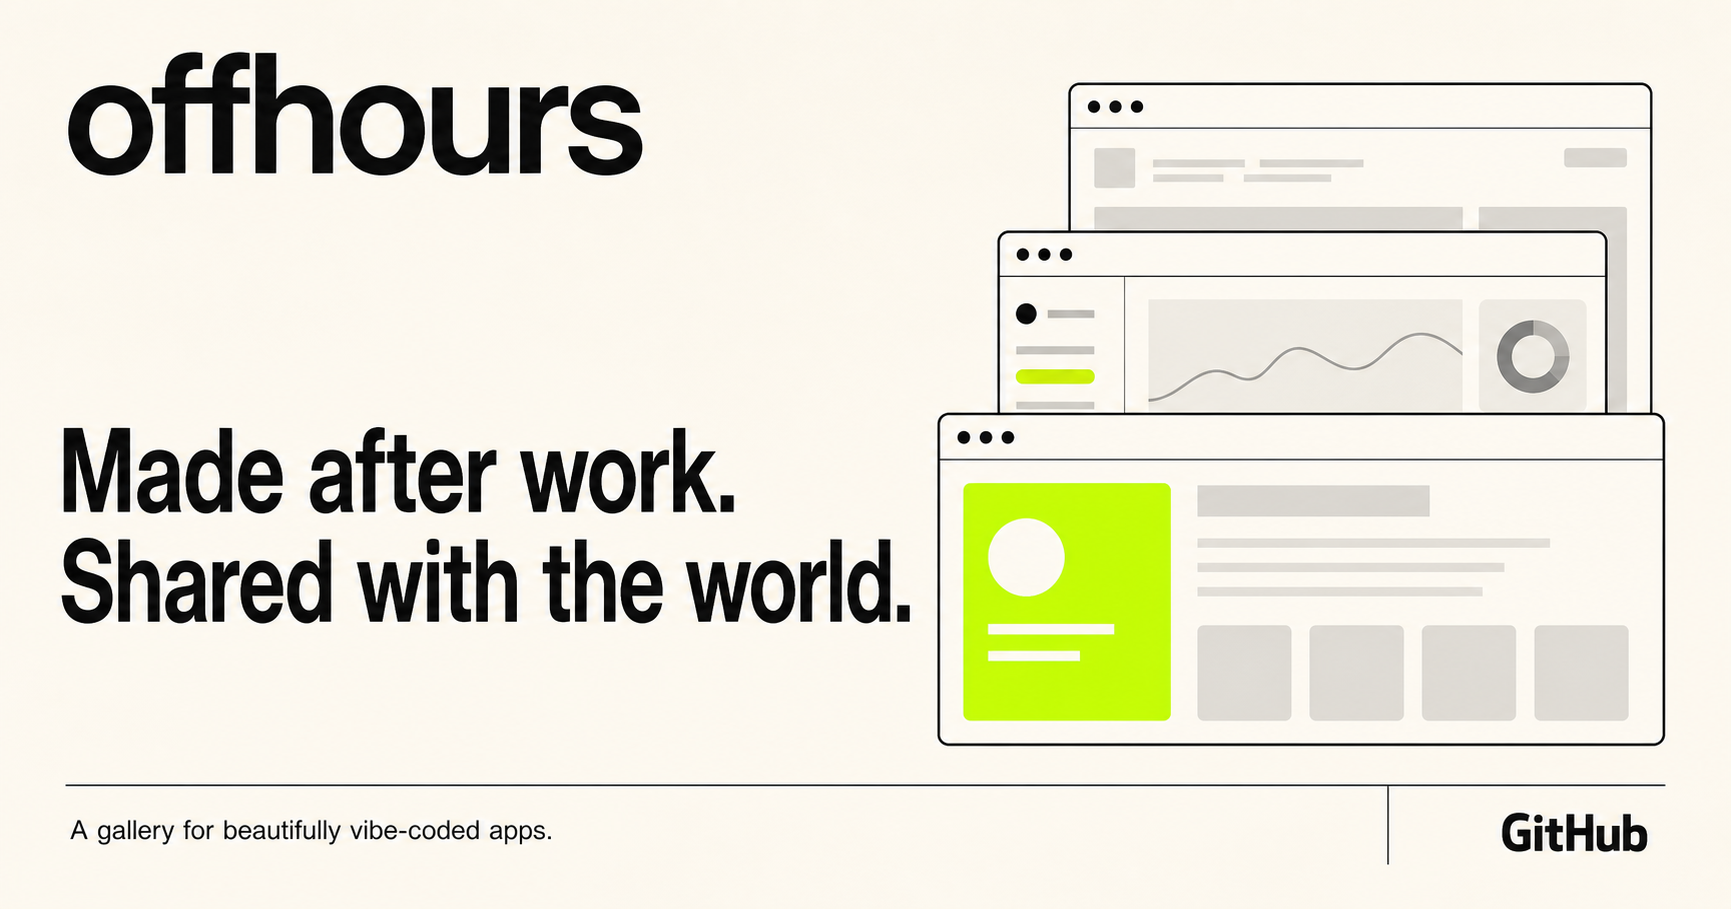
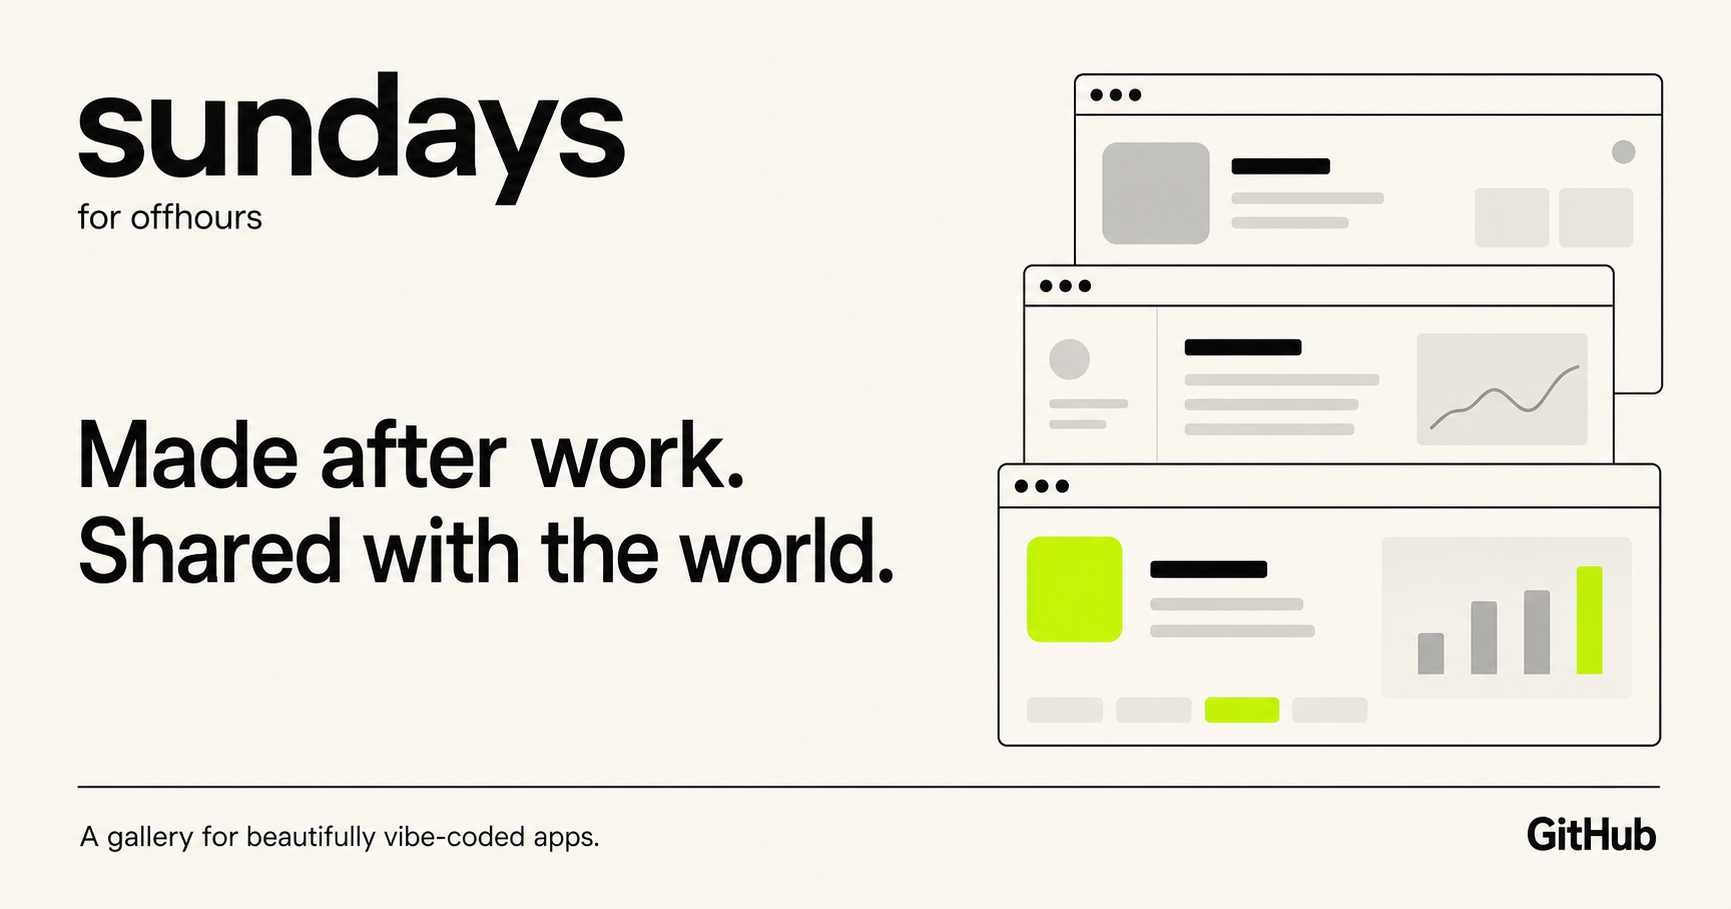
Rebrand offhours as sundays

Changed region(s): [[0.0312, 0.0616, 0.9671, 0.8317], [0.0312, 0.8625, 0.9671, 0.9549], [0.0312, 0.0616, 0.3744, 0.2464]]

diff --git a/app/globals.css b/app/globals.css
@@ -1,7 +1,7 @@
 @import "tailwindcss";
 :root{--paper:#f1efe8;--ink:#10100f;--acid:#ceff1a;--rule:rgba(16,16,15,.22)}
 *{box-sizing:border-box}html{scroll-behavior:smooth}body{margin:0;background:var(--paper);color:var(--ink);font-family:var(--font-geist-sans),Arial,sans-serif}a{color:inherit;text-decoration:none}.shell{width:min(1380px,calc(100% - 64px));margin-inline:auto}
-.nav{height:88px;display:grid;grid-template-columns:1fr auto 1fr;align-items:center;border-bottom:1px solid var(--rule)}.wordmark{font-size:23px;font-weight:650;letter-spacing:-.06em}.wordmark span{color:#7e22ce}.nav-links{display:flex;gap:36px;font-size:13px}.nav-links a,.footer a{transition:opacity .2s}.nav-links a:hover,.footer a:hover{opacity:.52}.github-button{justify-self:end;border:1px solid var(--ink);padding:12px 17px;font-size:12px;display:flex;align-items:center;gap:9px;transition:.2s}.github-button:hover{background:var(--ink);color:var(--paper)}.github-dot{width:16px;height:16px;display:inline-block;border-radius:50%;background:currentColor;position:relative}.github-dot:after{content:"";position:absolute;background:var(--paper);width:6px;height:5px;border-radius:50% 50% 40% 40%;left:5px;top:4px}
+.nav{height:88px;display:grid;grid-template-columns:1fr auto 1fr;align-items:center;border-bottom:1px solid var(--rule)}.wordmark{font-size:23px;font-weight:650;letter-spacing:-.06em;display:flex;align-items:baseline;width:max-content}.wordmark span{color:#7e22ce}.wordmark small{margin-left:10px;font:7px var(--font-geist-mono);letter-spacing:.08em;text-transform:uppercase;color:#777}.nav-links{display:flex;gap:36px;font-size:13px}.nav-links a,.footer a{transition:opacity .2s}.nav-links a:hover,.footer a:hover{opacity:.52}.github-button{justify-self:end;border:1px solid var(--ink);padding:12px 17px;font-size:12px;display:flex;align-items:center;gap:9px;transition:.2s}.github-button:hover{background:var(--ink);color:var(--paper)}.github-dot{width:16px;height:16px;display:inline-block;border-radius:50%;background:currentColor;position:relative}.github-dot:after{content:"";position:absolute;background:var(--paper);width:6px;height:5px;border-radius:50% 50% 40% 40%;left:5px;top:4px}
 .hero{padding:66px 0 50px;min-height:610px;display:flex;flex-direction:column}.eyebrow,.section-number{font-family:var(--font-geist-mono);font-size:10px;letter-spacing:.13em;text-transform:uppercase}.eyebrow{display:flex;gap:18px;align-items:center}.eyebrow span{padding:5px 7px;background:var(--acid)}.hero h1{margin:54px 0 42px;font-size:clamp(64px,8.3vw,128px);line-height:.87;letter-spacing:-.075em;font-weight:600}.hero h1 em,h2 em{font-family:Georgia,"Times New Roman",serif;font-weight:400}.hero h1 em{display:inline-block;padding-left:12.5vw}.hero-bottom{margin-top:auto;display:flex;justify-content:space-between;align-items:end}.hero-bottom p{margin:0;font-size:15px;line-height:1.55;color:#55554f}.text-link{display:flex;gap:54px;border-bottom:1px solid var(--ink);padding-bottom:9px;font-size:13px;transition:gap .2s}.text-link:hover{gap:64px}
 .ticker{border-block:1px solid var(--ink);overflow:hidden;background:var(--acid)}.ticker div{min-width:max-content;height:43px;display:flex;gap:36px;align-items:center;animation:drift 24s linear infinite;font-family:var(--font-geist-mono);text-transform:uppercase;letter-spacing:.08em;font-size:10px}.ticker b{font-size:13px}@keyframes drift{to{transform:translateX(-32%)}}
 .projects{padding:116px 0 140px}.section-head{display:flex;justify-content:space-between;align-items:end;margin-bottom:70px}.section-head h2{font-size:clamp(46px,5vw,76px);letter-spacing:-.06em;line-height:.95;margin:28px 0 0;font-weight:590}.section-head>p{font-size:13px;line-height:1.5;color:#5d5d57;margin:0}.project-grid{display:grid;grid-template-columns:1fr 1fr;gap:74px 28px}.preview-frame{height:clamp(300px,37vw,495px);display:block;padding:8%;position:relative;overflow:hidden}.preview-frame.lime{background:#cdef49}.preview-frame.blue{background:#89a9ff}.preview-frame.coral{background:#ff826d}.preview-frame.violet{background:#b893e6}.browser-chrome{height:32px;background:#f6f4ee;display:flex;gap:5px;align-items:center;padding:0 10px;box-shadow:0 16px 40px rgba(0,0,0,.12)}.browser-chrome span{width:5px;height:5px;background:#aaa;border-radius:50%}.browser-chrome b{margin-left:auto;font:8px var(--font-geist-mono);color:#777}.app-screen{height:calc(100% - 32px);background:#fff;box-shadow:0 16px 40px rgba(0,0,0,.12);position:relative;overflow:hidden}.open-pill{opacity:0;transform:translateY(8px);position:absolute;right:20px;bottom:20px;background:var(--ink);color:#fff;padding:12px 14px;font-size:11px;display:flex;gap:24px;transition:.2s}.preview-frame:hover .open-pill{opacity:1;transform:translateY(0)}

diff --git a/app/page.tsx b/app/page.tsx
@@ -41,12 +41,12 @@ export default function Home() {
   return (
     <main>
       <nav className="nav shell" aria-label="Primary navigation">
-        <Link className="wordmark" href="/">offhours<span>.</span></Link>
+        <Link className="wordmark" href="/">sundays<span>.</span><small>for offhours</small></Link>
         <div className="nav-links"><a href="#work">Explore</a><a href="#about">About</a></div>
         <a className="github-button" href="https://github.com" target="_blank" rel="noreferrer"><span className="github-dot" aria-hidden="true" /> Continue with GitHub</a>
       </nav>
       <section className="hero shell">
-        <div className="eyebrow"><span>001</span> Built after hours</div>
+        <div className="eyebrow"><span>001</span> Sundays are for offhours</div>
         <h1>Made after work.<br /><em>Shared with the world.</em></h1>
         <div className="hero-bottom"><p>A gallery for the little apps that became<br />something worth showing.</p><a className="text-link" href="#work">See what&apos;s being made <Arrow /></a></div>
       </section>
@@ -66,7 +66,7 @@ export default function Home() {
       </section>
       <section className="makers shell" id="about">
         <span className="section-number">02 / 03</span>
-        <div className="makers-copy"><h2>No pitches.<br />No growth hacks.<br /><em>Just good work.</em></h2><p>offhours is for people who make things because they can&apos;t quite stop themselves. Your page, your projects, your GitHub. We host the gallery—not your work.</p><a className="light-button" href="https://github.com" target="_blank" rel="noreferrer">Add yours with GitHub <Arrow /></a></div>
+        <div className="makers-copy"><h2>No pitches.<br />No growth hacks.<br /><em>Just good work.</em></h2><p>sundays is for people who make things in their offhours because they can&apos;t quite stop themselves. Your page, your projects, your GitHub. We host the gallery—not your work.</p><a className="light-button" href="https://github.com" target="_blank" rel="noreferrer">Add yours with GitHub <Arrow /></a></div>
         <div className="maker-stack" aria-label="Featured makers">
           {projects.slice(0, 3).map((project, index) => <Link className="maker-row" href={`/maker/${project.handle}`} key={project.handle}><span className={`avatar avatar-${index + 1}`} aria-hidden="true">{project.maker.charAt(0)}</span><span><strong>{project.maker}</strong><small>@{project.handle}</small></span><b>{String(index + 1).padStart(2, "0")} projects</b><Arrow /></Link>)}
         </div>
@@ -75,7 +75,7 @@ export default function Home() {
         <span className="section-number">03 / 03</span><div className="submit-mark">↘</div><h2>That thing you made<br />last weekend?</h2>
         <div><p>It belongs here.</p><a className="dark-button" href="https://github.com" target="_blank" rel="noreferrer"><span className="github-dot light" aria-hidden="true" /> Submit from GitHub <Arrow /></a></div>
       </section>
-      <footer className="footer shell"><Link className="wordmark" href="/">offhours<span>.</span></Link><p>For people who make things<br />after they&apos;re done making things.</p><div><a href="#work">Explore</a><a href="https://github.com">GitHub</a><a href="mailto:hello@offhours.gallery">Say hello</a></div><small>© 2026 offhours</small></footer>
+      <footer className="footer shell"><Link className="wordmark" href="/">sundays<span>.</span><small>for offhours</small></Link><p>For people who make things<br />after they&apos;re done making things.</p><div><a href="#work">Explore</a><a href="https://github.com">GitHub</a><a href="mailto:hello@sundays.gallery">Say hello</a></div><small>© 2026 sundays</small></footer>
     </main>
   );
 }

diff --git a/app/maker/[handle]/page.tsx b/app/maker/[handle]/page.tsx
@@ -20,7 +20,7 @@ export default async function MakerPage({ params }: { params: Promise<{ handle: 
   return (
     <main className="profile" style={{ "--profile-accent": maker.accent } as React.CSSProperties}>
       <nav className="nav shell">
-        <Link className="wordmark" href="/">offhours<span>.</span></Link>
+        <Link className="wordmark" href="/">sundays<span>.</span><small>for offhours</small></Link>
         <Link className="back-link" href="/">← Back to gallery</Link>
         <a className="github-button" href="https://github.com" target="_blank" rel="noreferrer"><span className="github-dot" /> GitHub profile</a>
       </nav>
@@ -31,7 +31,7 @@ export default async function MakerPage({ params }: { params: Promise<{ handle: 
         <div className="profile-facts"><span>Based in</span><strong>{maker.location}</strong><span>Making since</span><strong>2023</strong></div>
       </section>
       <section className="profile-work shell">
-        <div className="section-head"><div><span className="section-number">THE WORK</span><h2>Things made<br />after hours.</h2></div><p>All projects live on the maker&apos;s GitHub.<br />offhours only points the way.</p></div>
+        <div className="section-head"><div><span className="section-number">THE WORK</span><h2>Things made<br />after hours.</h2></div><p>All projects live on the maker&apos;s GitHub.<br />sundays only points the way.</p></div>
         <div className="profile-projects">
           {maker.projects.map((project, index) => (
             <a href="https://github.com" target="_blank" rel="noreferrer" className="profile-project" key={project}>
@@ -40,7 +40,7 @@ export default async function MakerPage({ params }: { params: Promise<{ handle: 
           ))}
         </div>
       </section>
-      <footer className="profile-footer shell"><Link href="/">← Explore more makers</Link><small>© 2026 offhours</small></footer>
+      <footer className="profile-footer shell"><Link href="/">← Explore more makers</Link><small>© 2026 sundays · for offhours</small></footer>
     </main>
   );
 }

diff --git a/app/layout.tsx b/app/layout.tsx
@@ -12,10 +12,10 @@ export async function generateMetadata(): Promise<Metadata> {
   const protocol = requestHeaders.get("x-forwarded-proto") ?? (host.includes("localhost") ? "http" : "https");
   const origin = `${protocol}://${host}`;
   return {
-    title: "offhours — Beautifully vibe-coded apps",
+    title: "sundays — Beautifully vibe-coded apps for offhours",
     description: "A gallery for the little apps that became something worth showing.",
-    openGraph: { title: "offhours — Made after work. Shared with the world.", description: "A gallery for beautifully vibe-coded apps.", type: "website", images: [{ url: `${origin}/og.png`, width: 1200, height: 630, alt: "offhours" }] },
-    twitter: { card: "summary_large_image", title: "offhours — Made after work. Shared with the world.", description: "A gallery for beautifully vibe-coded apps.", images: [`${origin}/og.png`] },
+    openGraph: { title: "sundays — Made after work. Shared with the world.", description: "A gallery for beautifully vibe-coded apps, made in the offhours.", type: "website", images: [{ url: `${origin}/og.png`, width: 1200, height: 630, alt: "sundays, for offhours" }] },
+    twitter: { card: "summary_large_image", title: "sundays — Made after work. Shared with the world.", description: "A gallery for beautifully vibe-coded apps, made in the offhours.", images: [`${origin}/og.png`] },
   };
 }
 
